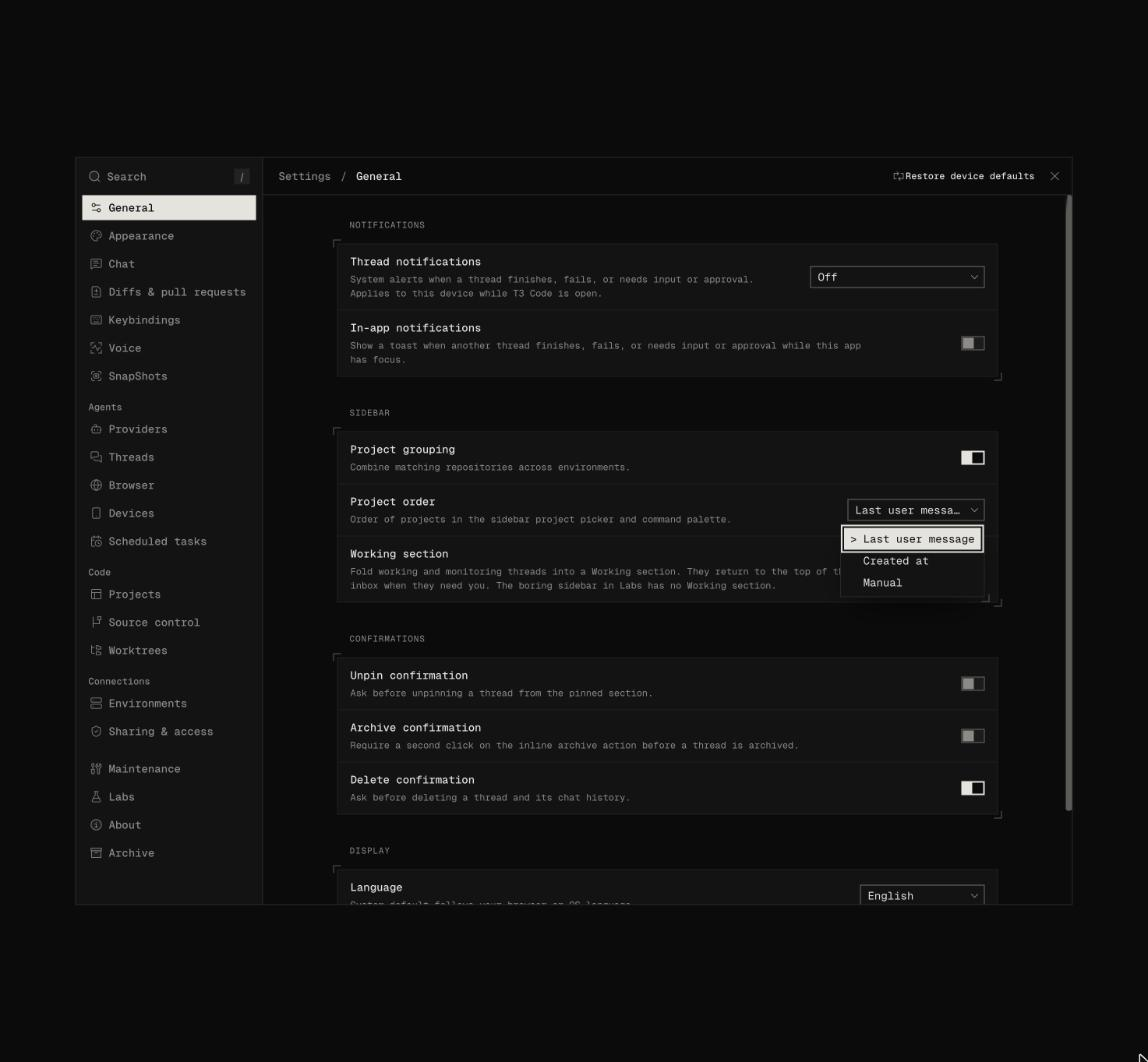
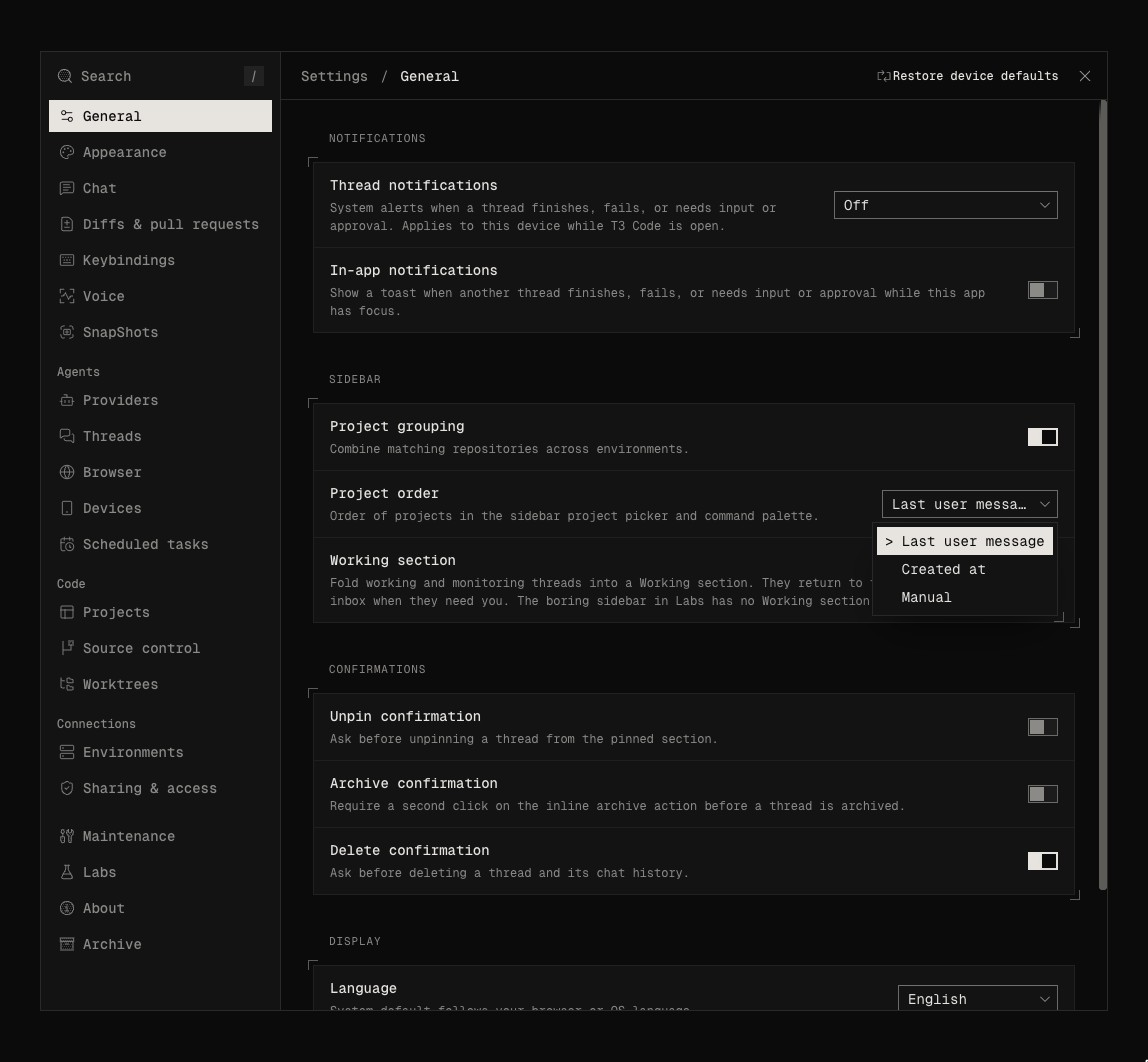
Refresh the full screenshots without redaction
The five screens now come from a personal project with the other
threads hidden, so no block characters cover them. The icon screen
shows a new contact sheet of the final 43 icons.

diff --git a/README.md b/README.md
@@ -18,14 +18,14 @@ Tested with T3 Code 0.1.10 (web and desktop). The theme is dark only.
 
 ## Full screens
 
-![A thread with a reply, a table and the dithered background](docs/screenshots/thread-chat.jpg)
+![A thread with a numbered list, a table and the dithered background](docs/screenshots/thread-chat.jpg)
 
 | | |
 |---|---|
-| ![The Icon set in a thread](docs/screenshots/thread-icons.jpg) | ![A new thread with the Display title](docs/screenshots/new-thread.jpg) |
+| ![The Icon set as a contact sheet in a thread, with the project panel open](docs/screenshots/thread-icons.jpg) | ![A new thread with the Display title](docs/screenshots/new-thread.jpg) |
 | ![Settings with crop marks, switches and an open select](docs/screenshots/settings.jpg) | ![Providers with the Claude and Codex glyphs](docs/screenshots/providers.jpg) |
 
-The full screens come from a real workspace. Project names, other thread titles and the machine name are redacted with block characters. The bento above comes from a separate project with the other threads hidden, so no block characters cover it. `scripts/showcase.py` crops it from six window captures.
+All screens come from a separate project with the other threads hidden, so nothing is redacted. `scripts/showcase.py` crops the bento above from six window captures.
 
 ## Install
 
